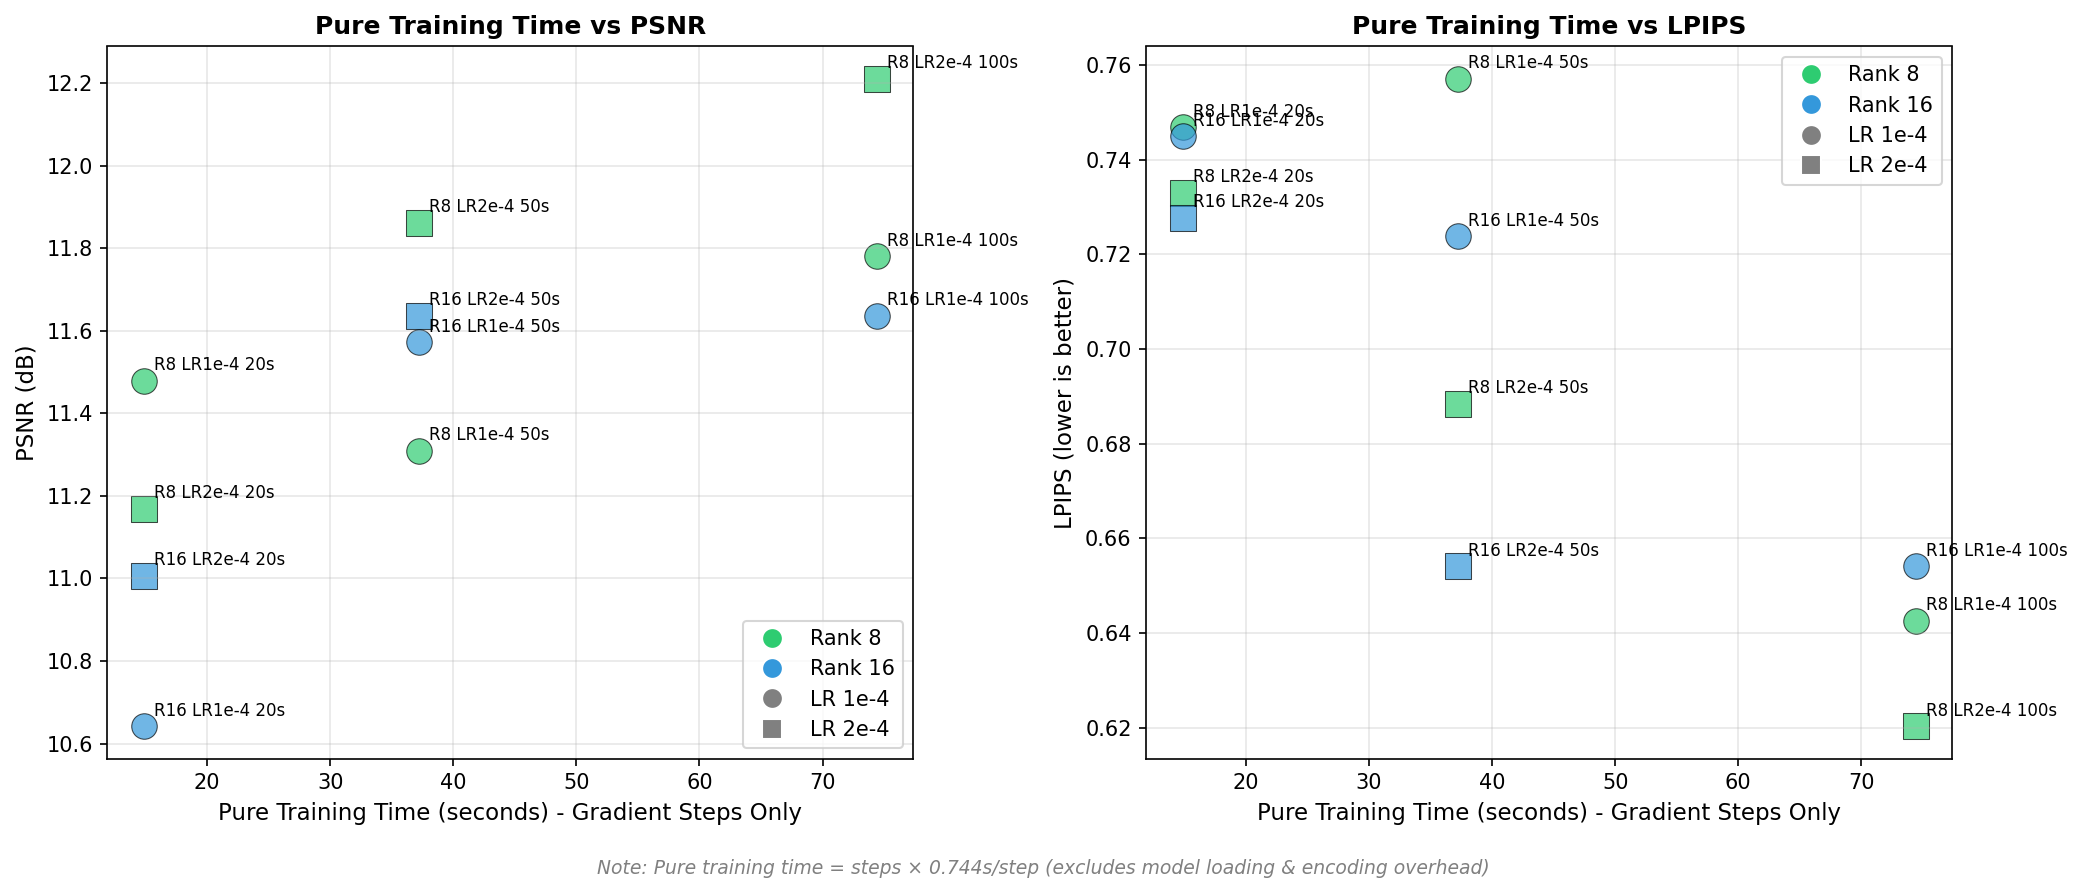
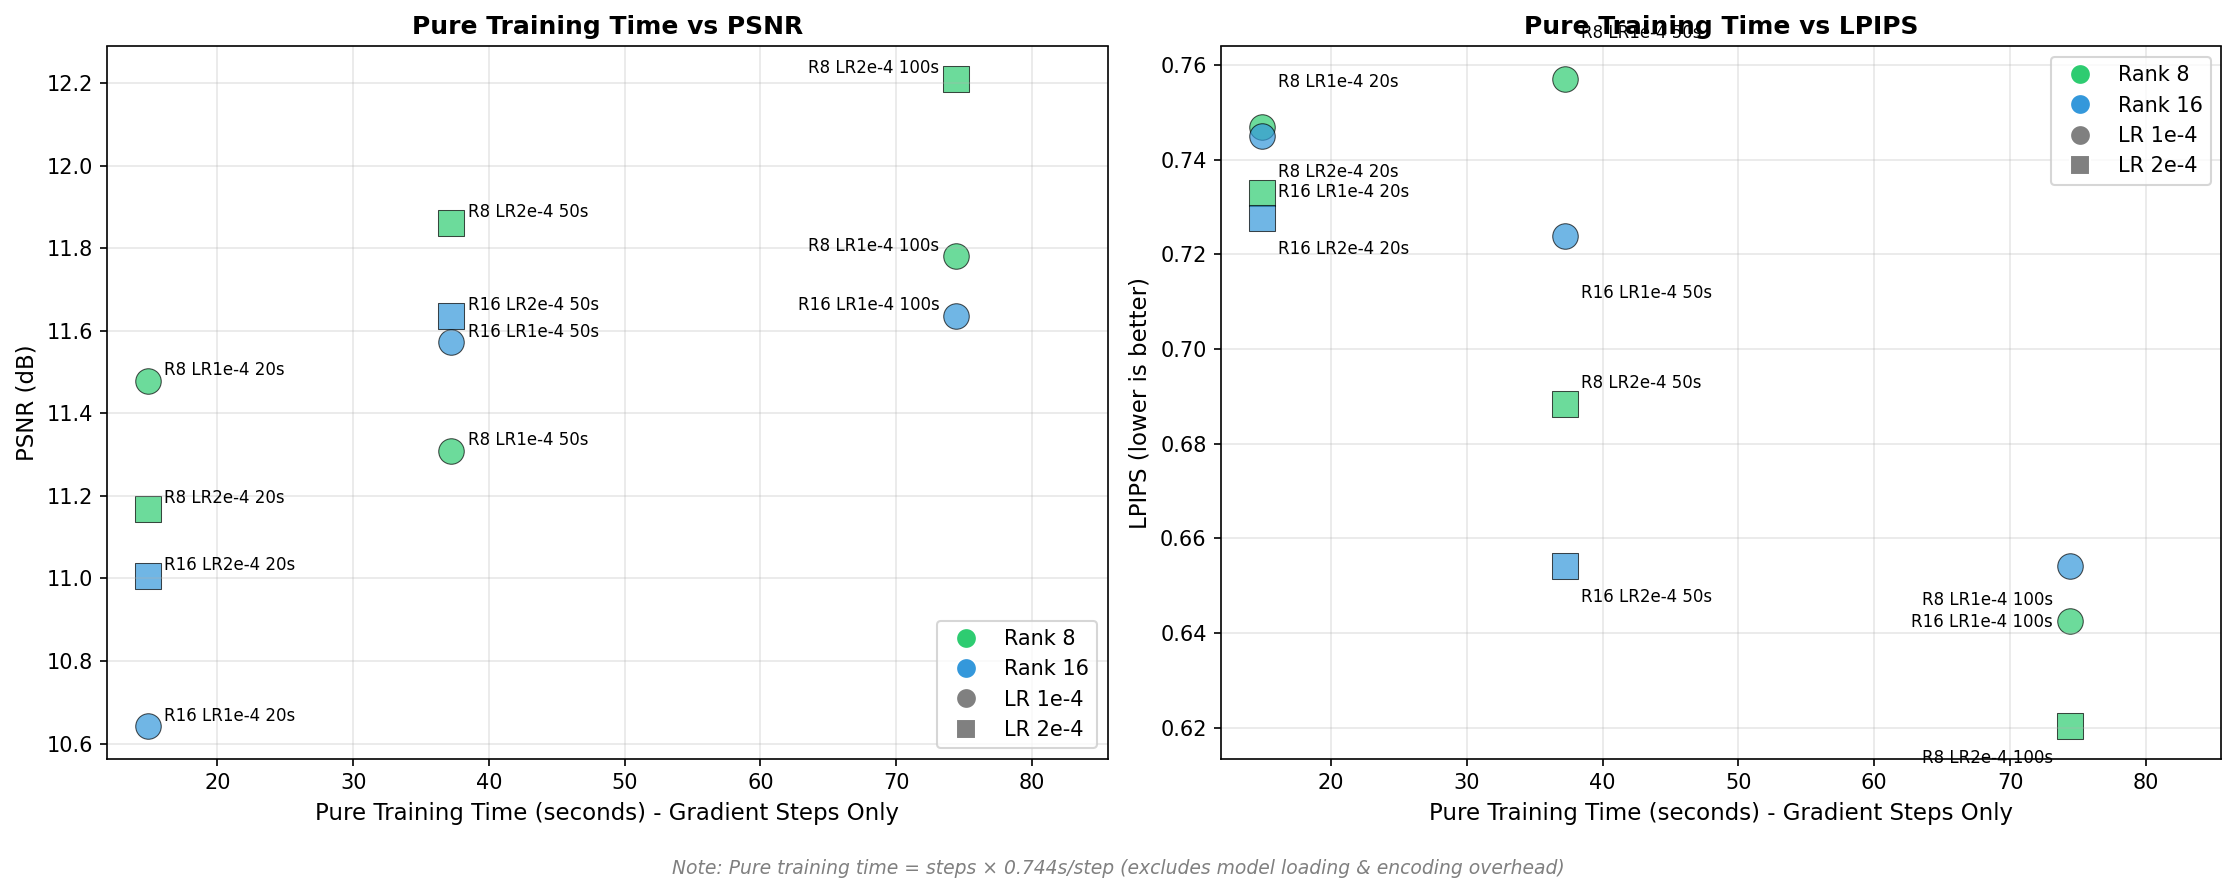
Fix label overlapping and overflow in 4_time_vs_quality.png

diff --git a/lora_experiment/scripts/visualization/compare_lora_configs.py b/lora_experiment/scripts/visualization/compare_lora_configs.py
@@ -286,36 +286,105 @@ def plot_time_vs_quality(results: dict, output_dir: Path):
     psnr_vals = [results[c]['psnr'] for c in configs]
     lpips_vals = [results[c]['lpips'] for c in configs]
     
-    fig, axes = plt.subplots(1, 2, figsize=(14, 6))
+    fig, axes = plt.subplots(1, 2, figsize=(15, 6))
     
     # Assign colors based on rank
     colors = ['#2ecc71' if results[c]['config']['rank'] == 8 else '#3498db' for c in configs]
     # Assign markers based on LR
     markers = ['o' if results[c]['config']['lr'] == 1e-4 else 's' for c in configs]
     
+    # Helper function to get smart label positions
+    def get_label_position(x, y, all_x, all_y, x_max, idx):
+        """Determine label position to avoid overlaps and overflow."""
+        # Check if point is on the right side (would overflow)
+        if x > x_max * 0.7:
+            ha = 'right'
+            x_offset = -8
+        else:
+            ha = 'left'
+            x_offset = 8
+        
+        # Check for nearby points to avoid vertical overlap
+        y_offset = 5
+        for j, (ox, oy) in enumerate(zip(all_x, all_y)):
+            if j != idx and abs(x - ox) < 5 and abs(y - oy) < 0.03:
+                # Points are close, stagger vertically
+                if y > oy:
+                    y_offset = 12
+                else:
+                    y_offset = -12
+                break
+        
+        return x_offset, y_offset, ha
+    
+    # Get max x for determining overflow threshold
+    x_max = max(pure_train_times)
+    
     # Time vs PSNR
     for i, c in enumerate(configs):
         axes[0].scatter(pure_train_times[i], psnr_vals[i], c=colors[i], marker=markers[i], s=150, alpha=0.7,
                        edgecolors='black', linewidths=0.5)
+        
+        x_off, y_off, ha = get_label_position(pure_train_times[i], psnr_vals[i], 
+                                               pure_train_times, psnr_vals, x_max, i)
         axes[0].annotate(labels[i], (pure_train_times[i], psnr_vals[i]), 
-                        textcoords="offset points", xytext=(5, 5), fontsize=8)
+                        textcoords="offset points", xytext=(x_off, y_off), 
+                        fontsize=8, ha=ha, va='center')
     
     axes[0].set_xlabel('Pure Training Time (seconds) - Gradient Steps Only', fontsize=11)
     axes[0].set_ylabel('PSNR (dB)', fontsize=11)
     axes[0].set_title('Pure Training Time vs PSNR', fontsize=12, fontweight='bold')
     axes[0].grid(True, alpha=0.3)
+    # Add right margin to prevent label cutoff
+    axes[0].set_xlim(right=x_max * 1.15)
     
-    # Time vs LPIPS  
+    # Time vs LPIPS - need special handling for overlapping labels
+    # Group points by time to handle overlaps
+    time_to_points = {}
+    for i, c in enumerate(configs):
+        t = pure_train_times[i]
+        if t not in time_to_points:
+            time_to_points[t] = []
+        time_to_points[t].append((i, lpips_vals[i], labels[i], colors[i], markers[i]))
+    
     for i, c in enumerate(configs):
         axes[1].scatter(pure_train_times[i], lpips_vals[i], c=colors[i], marker=markers[i], s=150, alpha=0.7,
                        edgecolors='black', linewidths=0.5)
-        axes[1].annotate(labels[i], (pure_train_times[i], lpips_vals[i]),
-                        textcoords="offset points", xytext=(5, 5), fontsize=8)
+    
+    # Add labels with smart positioning for LPIPS
+    for t, points in time_to_points.items():
+        # Sort points by LPIPS value
+        points.sort(key=lambda x: x[1])
+        
+        for rank_in_group, (i, lpips, label, color, marker) in enumerate(points):
+            # Determine horizontal alignment based on position
+            if t > x_max * 0.7:
+                ha = 'right'
+                x_offset = -8
+            else:
+                ha = 'left'
+                x_offset = 8
+            
+            # Stagger labels vertically if multiple points at same x
+            if len(points) > 1:
+                # Alternate above/below for points at same x
+                if rank_in_group % 2 == 0:
+                    y_offset = -15 - (rank_in_group // 2) * 12
+                else:
+                    y_offset = 10 + (rank_in_group // 2) * 12
+            else:
+                y_offset = 5
+            
+            axes[1].annotate(label, (t, lpips),
+                           textcoords="offset points", xytext=(x_offset, y_offset),
+                           fontsize=8, ha=ha, va='center')
     
     axes[1].set_xlabel('Pure Training Time (seconds) - Gradient Steps Only', fontsize=11)
     axes[1].set_ylabel('LPIPS (lower is better)', fontsize=11)
     axes[1].set_title('Pure Training Time vs LPIPS', fontsize=12, fontweight='bold')
     axes[1].grid(True, alpha=0.3)
+    # Add right margin to prevent label cutoff
+    axes[1].set_xlim(right=x_max * 1.15)
     
     # Add legend
     legend_elements = [
